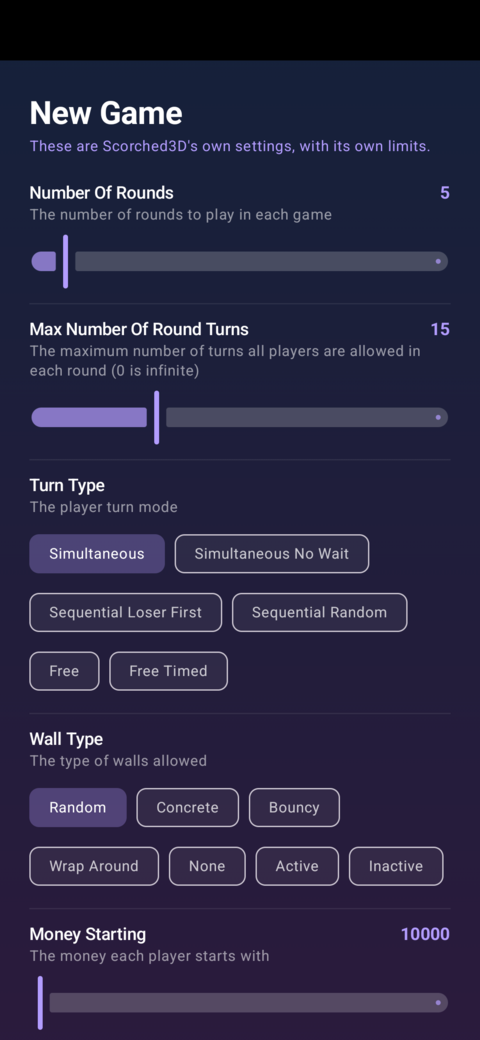
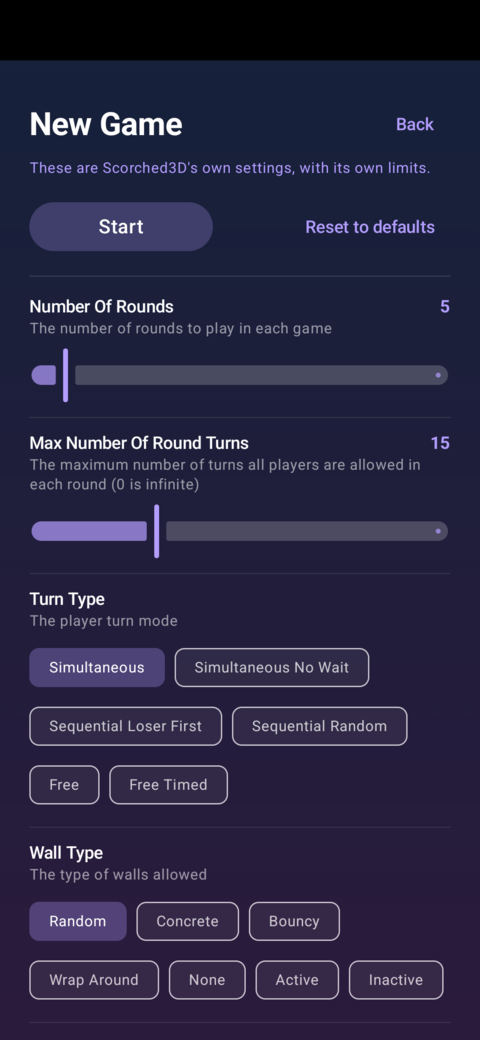
0.5.0
Sound, music, the tutorial, and the UI moves since 0.4.0. Refreshes the
setup screenshot, which still showed Start at the foot of the scroll.

Claude-Session: https://claude.ai/code/session_012ij49xwQphcUDVdxjHMC1n

Changed region(s): [[0.0625, 0.0923, 0.9375, 1.0], [0.9062, 0.8308, 0.9375, 0.8615], [0.8438, 0.6769, 0.875, 0.7077]]

diff --git a/README.md b/README.md
@@ -10,7 +10,7 @@ It is in a playable state now with most of the graphics and gameplay implemented
 
 Cheers, enjoy! rm
 
-<img src="docs/shot-menu.png" alt="The ScorchDroid main menu: the title over Single Player, Multiplayer, Settings and About" width="200" /> <img src="docs/shot-setup.png" alt="The New Game setup screen, with sliders for the number of rounds and turns and chips for the turn type and wall type, each labelled with Scorched3D's own description" width="200" /> <img src="docs/shot-gameplay.png" alt="ScorchDroid mid-round: a pine-covered island seen from above and behind the player's red tank, the sea reflecting the sky beyond the shoreline, with the angle and elevation sliders either side and the weapon and Fire buttons below" width="200" /> <img src="docs/shot-scores.png" alt="The score table for round 1 of 5, turn 8 of 15, listing the player and a bot with their score, kills, wins and money, with the chat history below showing the bot's taunts and the player's reply" width="200" />
+<img src="docs/shot-menu.png" alt="The ScorchDroid main menu: the title over Single Player, Multiplayer, Settings and About" width="200" /> <img src="docs/shot-setup.png" alt="The New Game setup screen: Start and Reset to defaults under the header, then sliders for the number of rounds and turns and chips for the turn type and wall type, each labelled with Scorched3D's own description" width="200" /> <img src="docs/shot-gameplay.png" alt="ScorchDroid mid-round: a pine-covered island seen from above and behind the player's red tank, the sea reflecting the sky beyond the shoreline, with the angle and elevation sliders either side and the weapon and Fire buttons below" width="200" /> <img src="docs/shot-scores.png" alt="The score table for round 1 of 5, turn 8 of 15, listing the player and a bot with their score, kills, wins and money, with the chat history below showing the bot's taunts and the player's reply" width="200" />
 
 ## Features
 
